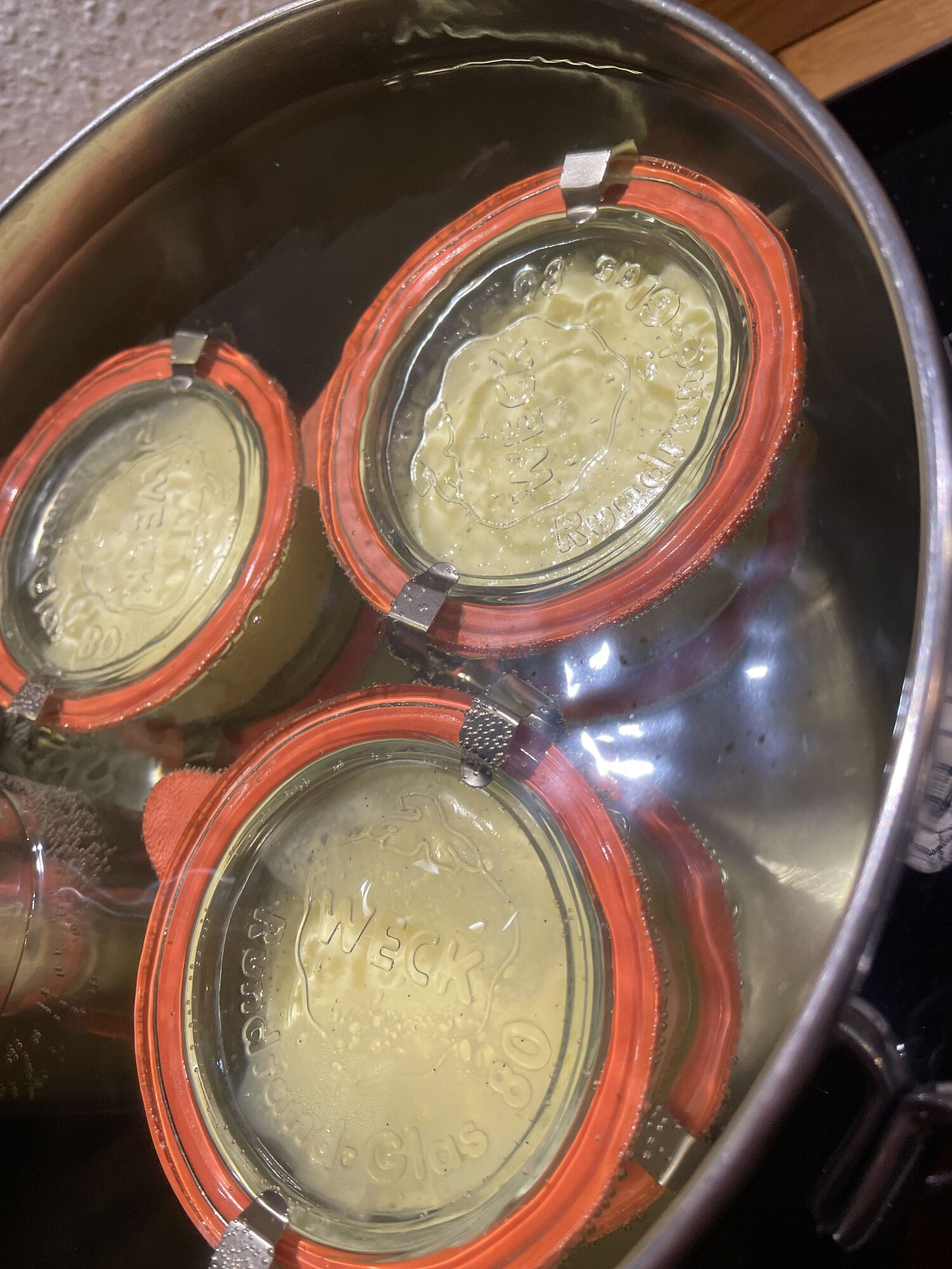
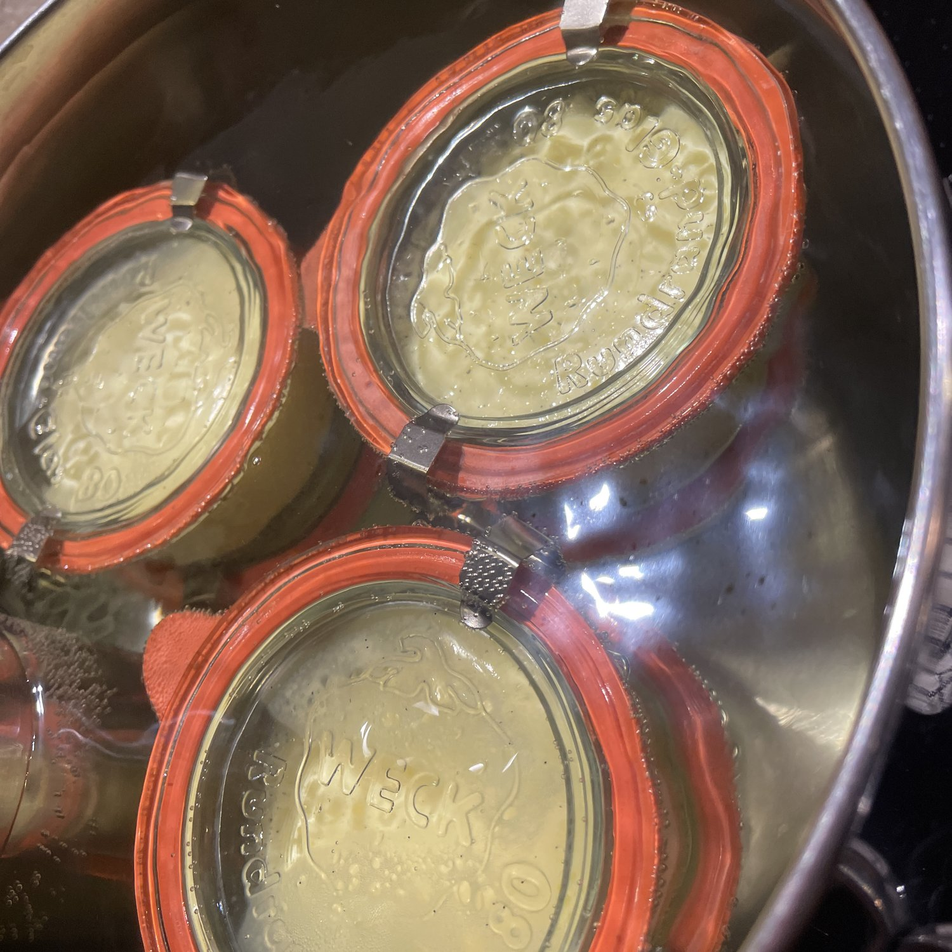
Crème Brûlée Sous Vide: cracked caramel as main photo, square sous vide photo

diff --git a/docs/Dolci/Crème Brûlée Sous Vide.md b/docs/Dolci/Crème Brûlée Sous Vide.md
@@ -3,10 +3,10 @@ title: "Crème Brûlée Sous Vide"
 description: "La ricetta di Crème Brûlée Sous Vide: ingredienti, dosi, preparazione e consigli per realizzarlo in casa."
 author: "Daniela e Mirko Maischberger"
 date_published: "2025-10-18"
-date_modified: "2026-11-06"
+date_modified: "2026-11-08"
 schema_type: "Recipe"
-image: "images/creme-brulee.jpeg"
-image_alt: "Crème Brûlée Sous Vide"
+image: "images/creme-brulee-caramello.jpeg"
+image_alt: "Crème brûlée con la crosta di caramello rotta, vista dall'alto"
 category: "Dolci"
 cuisine: "Francese"
 tags:
@@ -19,7 +19,7 @@ cucina_abbinamenti:
   "bruciatore": [Cannello]
 ---
 
-![Crème Brûlée Sous Vide](../images/creme-brulee.jpeg)
+![Crème brûlée con la crosta di caramello rotta, vista dall'alto](../images/creme-brulee-caramello.jpeg)
 
 ## 🧾 Ingredienti
 
@@ -42,7 +42,7 @@ cucina_abbinamenti:
 3. Aggiungere la panna liquida e mescolare senza incorporare aria.
 4. Dividere in contenitori richiudibili in 5 o 6 porzioni da 150g circa (eg Weck Gourmet Jars 165 ml Jars RR80 with Glass Lid).
 
-![Crème brûlée preparata sous vide](../images/creme-brulee-sous-vide.jpeg)
+![Vasetti di vetro con la crema immersi nell'acqua della pentola per la cottura sous vide](../images/creme-brulee-sous-vide.jpeg)
 
 5. Se si sono formate bolle in superficie, scoppiarle con il bruciatore.
 6. Chiudere i barattoli senza stringere troppo.
